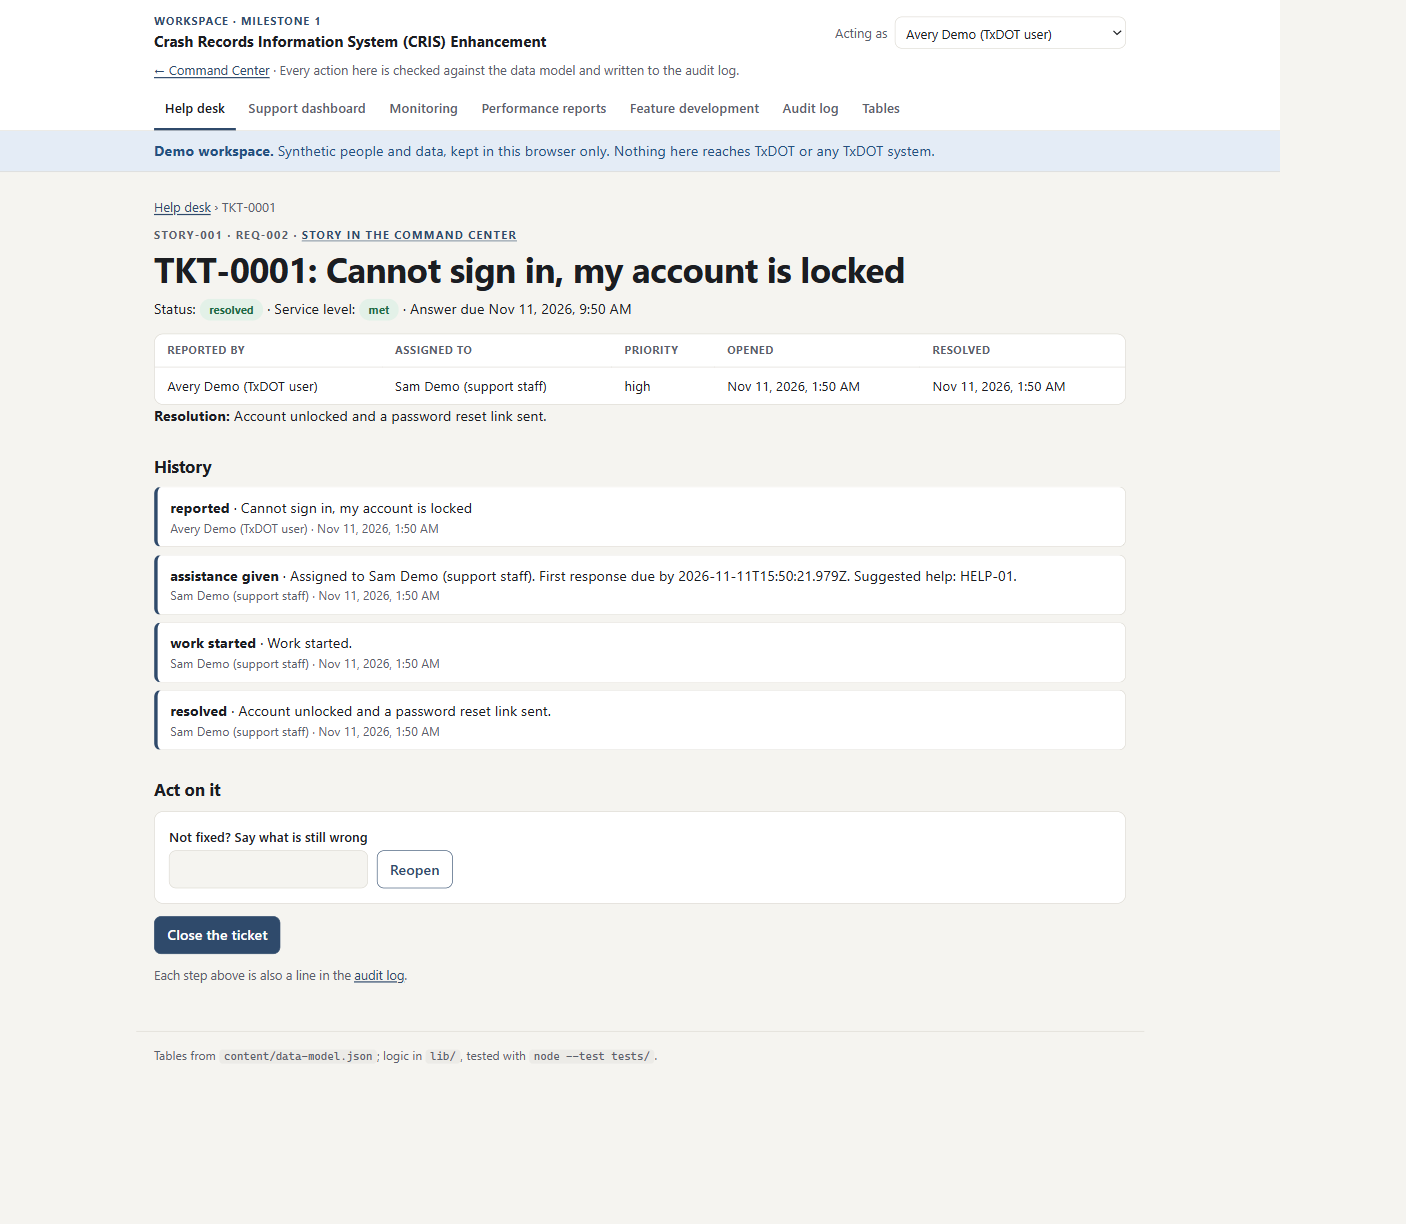
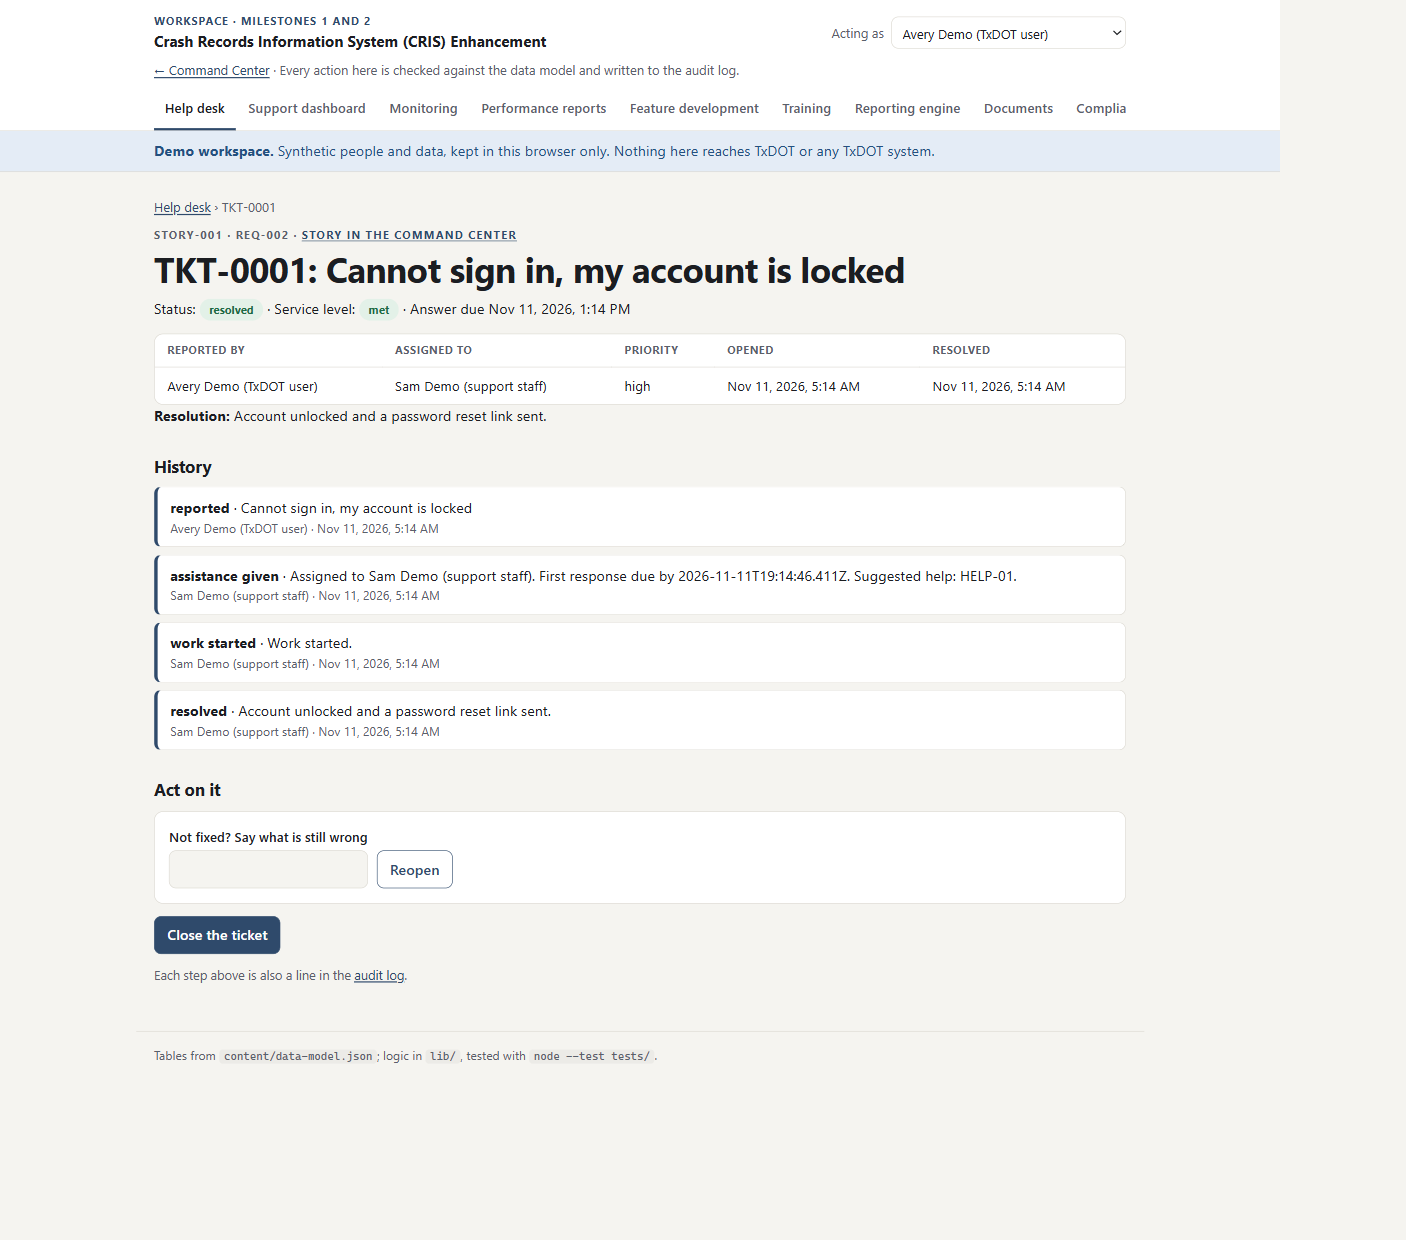
Workspace: groundwork for Milestone 2
- The data model gains the fields the next four stories need, each marked with
  its story; choice lists written after a label are read correctly.
- The store can write an audit line with no record change (for refused access),
  and gives the new tables short ids (TS-, TA-, DOC-, CC-).
- Three demo roles join the synthetic people: a contract manager, a compliance
  officer and a procurement officer.
- The workspace loads the Milestone 2 content files, each optional so a missing
  file is reported on its own page, and keeps uploaded files in IndexedDB.
- Starting a new demo also clears the stored files; radio buttons render inline.
The Milestone 1 screenshots are refreshed from a passing walk.

diff --git a/workspace/js/main.js b/workspace/js/main.js
@@ -6,6 +6,7 @@ import { compileSchema } from '../../lib/schema.js';
 import { createStore, localStorageBackend, memoryBackend } from '../../lib/store.js';
 import { seedPeople } from '../../lib/seed.js';
 import { PAGES, renderPage } from './views.js';
+import { openBlobs } from './blobs.js';
 
 const STORE_KEY = 'cris-workspace-v1';
 const ACTOR_KEY = 'cris-workspace-actor';
@@ -49,6 +50,10 @@ async function open() {
   }
   ctx.articles = help.articles;
   ctx.peopleSeed = people.people;
+  // Milestone 2 content. A file that cannot be read leaves its page saying so, rather than the whole workspace failing.
+  const optional = (path) => json(path).catch((err) => ({ error: err.message }));
+  [ctx.materials, ctx.specs, ctx.compliance] = await Promise.all([optional('../content/training-materials.json'), optional('../content/report-specs.json'), optional('../content/compliance-rules.json')]);
+  ctx.blobs = await openBlobs();
   await seedPeople(ctx.store, people.people);
   ctx.actor = readActor();
 }
@@ -94,7 +99,7 @@ export function render({ moveFocus = false } = {}) {
     h(
       'header',
       { class: 'top' },
-      h('div', { class: 'top__row' }, h('a', { class: 'top__brand', href: '#/help-desk' }, h('span', { class: 'top__kicker' }, 'Workspace · Milestone 1'), h('span', { class: 'top__name' }, 'Crash Records Information System (CRIS) Enhancement')), actorPicker()),
+      h('div', { class: 'top__row' }, h('a', { class: 'top__brand', href: '#/help-desk' }, h('span', { class: 'top__kicker' }, 'Workspace · Milestones 1 and 2'), h('span', { class: 'top__name' }, 'Crash Records Information System (CRIS) Enhancement')), actorPicker()),
       h('p', { class: 'stamp' }, h('a', { href: '../' }, '← Command Center'), ' · Every action here is checked against the data model and written to the audit log.'),
       h('nav', { class: 'tabs', 'aria-label': 'Workspace pages' }, PAGES.map((p) => h('a', { href: `#/${p.id}`, 'aria-current': p.id === pageId ? 'page' : null }, p.label))),
     ),

diff --git a/lib/store.js b/lib/store.js
@@ -18,7 +18,7 @@ export class StoreError extends Error {
   }
 }
 
-const PREFIX = { Person: 'P', SupportTicket: 'TKT', TicketEvent: 'EVT', HealthSample: 'HS', Incident: 'INC', Report: 'RPT', Feedback: 'FB', FeatureChange: 'FC', MaintenanceWindow: 'MW', AuditEntry: 'AUD' };
+const PREFIX = { Person: 'P', SupportTicket: 'TKT', TicketEvent: 'EVT', HealthSample: 'HS', Incident: 'INC', Report: 'RPT', Feedback: 'FB', FeatureChange: 'FC', MaintenanceWindow: 'MW', AuditEntry: 'AUD', TrainingSession: 'TS', TrainingAttendance: 'TA', SolicitationResponse: 'RSP', ResponseDocument: 'DOC', ComplianceCheck: 'CC' };
 export const APPEND_ONLY = new Set(['TicketEvent', 'HealthSample', 'Report', 'AuditEntry']);
 const GENESIS = '0'.repeat(64);
 
@@ -99,6 +99,8 @@ export async function createStore({ schema, backend = memoryBackend(), now = () 
     insert: (table, record, opts = {}) =>
       opts.key && state.keys[opts.key] ? Promise.resolve(api.get(state.keys[opts.key].table, state.keys[opts.key].id)) : commit((s) => txApi(s).insert(table, record, opts)),
     update: (table, id, patch, opts = {}) => commit((s) => txApi(s).update(table, id, patch, opts)),
+    /** An audit line with no record change: for things that must be logged even though nothing was stored, such as a refused access. */
+    log: (action, opts = {}) => commit((s) => txApi(s).log(action, opts)),
 
     /** Several writes saved together: if any fails, none is kept. */
     async transaction(work) {
@@ -153,6 +155,7 @@ export async function createStore({ schema, backend = memoryBackend(), now = () 
         return r ? { ...r } : null;
       },
       list: (table, where = () => true) => rows(s, table).filter(where).map((r) => ({ ...r })),
+      log: (action, { actor, entity = '(none)', record_id = '(none)', detail } = {}) => appendAudit(s, { actor, action, entity, record_id, detail }),
       seen: (key) => Boolean(s.keys[key]),
       remember: (key, table, id) => {
         s.keys[key] = { table, id };

diff --git a/workspace/js/common.js b/workspace/js/common.js
@@ -3,7 +3,7 @@ import { h } from '../../assets/js/ui.js';
 
 export const when = (iso) => (iso ? new Date(iso).toLocaleString(undefined, { dateStyle: 'medium', timeStyle: 'short' }) : '—');
 export const person = (ctx, id) => ctx.store.get('Person', id)?.display_name ?? (id || '—');
-export const tone = { open: 'warn', 'in progress': 'info', resolved: 'ok', closed: 'ok', met: 'ok', 'on track': 'info', 'at risk': 'warn', breached: 'bad', missed: 'bad', scheduled: 'info', completed: 'ok', cancelled: 'unknown', new: 'info', planned: 'info', declined: 'unknown', reviewed: 'ok', proposed: 'info', approved: 'info', 'in build': 'warn', released: 'ok', mitigated: 'warn' };
+export const tone = { open: 'warn', 'in progress': 'info', resolved: 'ok', closed: 'ok', met: 'ok', 'on track': 'info', 'at risk': 'warn', breached: 'bad', missed: 'bad', scheduled: 'info', completed: 'ok', cancelled: 'unknown', new: 'info', planned: 'info', declined: 'unknown', reviewed: 'ok', proposed: 'info', approved: 'info', 'in build': 'warn', released: 'ok', mitigated: 'warn', held: 'ok', current: 'ok', superseded: 'unknown', pass: 'ok', fail: 'bad', 'not applicable': 'unknown', stale: 'warn' };
 export const badge = (text) => h('span', { class: `pill pill--${tone[text] ?? 'unknown'}` }, text);
 
 export function head(page, title, lede) {

diff --git a/workspace/js/blobs.js b/workspace/js/blobs.js
@@ -1,0 +1,33 @@
+// Where uploaded document files live in the browser: IndexedDB, keyed by the file's SHA-256. localStorage is too small
+// for files. If the browser refuses IndexedDB, files are kept in memory until the page closes, and the page says so.
+
+const DB = 'cris-workspace-documents';
+const STORE = 'files';
+
+function req(r) {
+  return new Promise((resolve, reject) => {
+    r.onsuccess = () => resolve(r.result);
+    r.onerror = () => reject(r.error);
+  });
+}
+
+export async function openBlobs() {
+  try {
+    const open = indexedDB.open(DB, 1);
+    open.onupgradeneeded = () => open.result.createObjectStore(STORE);
+    const db = await req(open);
+    const tx = (mode) => db.transaction(STORE, mode).objectStore(STORE);
+    return {
+      persistent: true,
+      put: (k, bytes) => req(tx('readwrite').put(bytes, k)).then(() => undefined),
+      get: async (k) => {
+        const v = await req(tx('readonly').get(k));
+        return v ? new Uint8Array(v) : null;
+      },
+      clear: () => req(tx('readwrite').clear()).then(() => undefined),
+    };
+  } catch {
+    const m = new Map();
+    return { persistent: false, put: async (k, b) => void m.set(k, new Uint8Array(b)), get: async (k) => (m.has(k) ? new Uint8Array(m.get(k)) : null), clear: async () => m.clear() };
+  }
+}

diff --git a/workspace/workspace.css b/workspace/workspace.css
@@ -39,3 +39,10 @@
 .bar__fill--warn { background: var(--warn); }
 .bar__fill--bad { background: var(--bad); }
 @media (max-width: 520px) { .bar { grid-template-columns: 1fr auto; } .bar__track { grid-column: 1 / -1; } }
+
+.preview { max-height: 320px; overflow: auto; background: var(--surface); border: 1px solid var(--rule); border-radius: 8px; padding: 12px; font: 0.85rem/1.5 var(--mono); white-space: pre-wrap; }
+fieldset.field { border: 1px solid var(--rule); border-radius: 8px; padding: 10px 12px; }
+fieldset.field legend { font-weight: 600; padding: 0 4px; }
+fieldset.field label { display: block; padding: 3px 0; font-weight: 400; }
+fieldset.field label { display: flex; align-items: center; gap: 10px; }
+.field input[type="radio"], .field input[type="checkbox"] { width: auto; min-height: 0; padding: 0; margin: 0; flex: none; accent-color: var(--brand); }

diff --git a/lib/schema.js b/lib/schema.js
@@ -54,7 +54,8 @@ export function check(schema, entity, record, exists = () => true) {
     if (schema.has(type)) {
       if (typeof v !== 'string' || !exists(type, v)) problems.push(`${f.name} points to ${type} ${v}, which does not exist`);
     } else if (type === 'choice') {
-      const allowed = choices(f.note.replace(/^optional;?\s*/i, ''));
+      // "optional; added by STORY-005: scheduled, held" -> the options are what follows the last colon.
+      const allowed = choices(f.note.replace(/^optional;?\s*/i, '').split(':').pop());
       if (!allowed.includes(String(v))) problems.push(`${f.name} must be one of: ${allowed.join(', ')}`);
     } else if (type === 'number' || type === 'money') {
       if (typeof v !== 'number' || !Number.isFinite(v)) problems.push(`${f.name} must be a number`);

diff --git a/workspace/js/audit.js b/workspace/js/audit.js
@@ -21,6 +21,7 @@ export function audit(page, rest, ctx) {
       return;
     }
     s.reset();
+    await ctx.blobs?.clear?.();
     const { seedPeople } = await import('../../lib/seed.js');
     await seedPeople(s, ctx.peopleSeed);
     ctx.flash = { tone: 'ok', title: 'A new, empty demo store was started.' };
